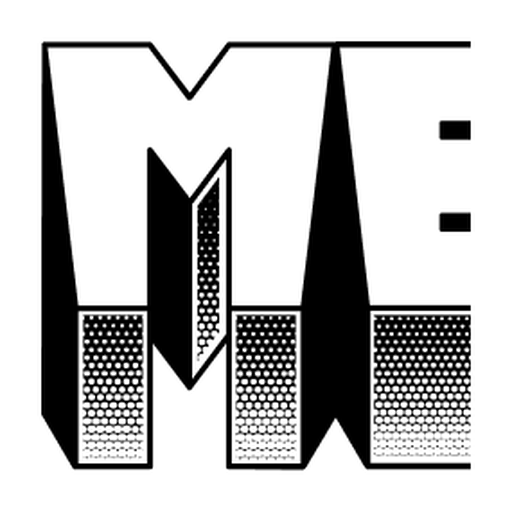
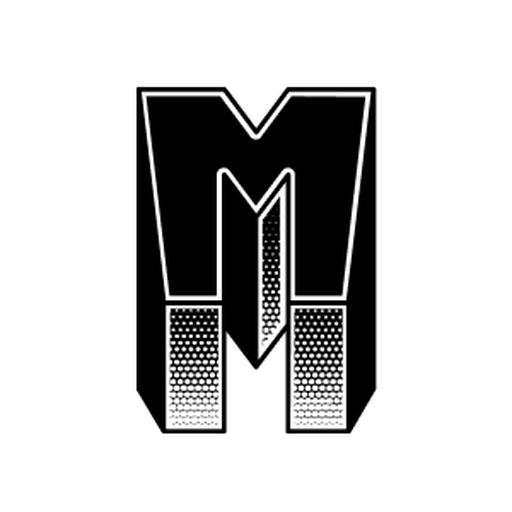
mechanica: the real square mark (Chris drew the M)
Supersedes the squeezed-wordmark square, which was illegible at avatar size.
A glyph could not be cropped out of the wordmark because the extruded letters
overlap - it needed drawing, and Chris drew it.

diff --git a/README.md b/README.md
@@ -32,7 +32,8 @@ other Slay Global repo is private. Email needs a stable public origin for every 
 |---|---|
 | `mechanica/mechanica-masthead-700.png` | MECHANICA masthead, **centered** use. 700x120, displays at 350px |
 | `mechanica/mechanica-masthead-1200.png` | ⭐ MECHANICA masthead, **FULL-WIDTH** use. 1200x205, displays at 600px |
-| `mechanica/mechanica-square-512.png` | Square avatar for platform profiles (Substack etc). ⚠ Wordmark centered — **a proper single-glyph mark is a design job, not a crop**: the extruded letters overlap, so no letter can be cut out cleanly |
+| `mechanica/mechanica-mark-512.png` | ⭐ **THE SQUARE MARK** — the M glyph, drawn properly. Use for every platform avatar |
+| `mechanica/mechanica-square-512.png` | ⚠ SUPERSEDED. Wordmark squeezed into a square; illegible small. **Kept only as the record of why a crop does not work** — the extruded letters overlap, so no glyph can be cut out of the wordmark |
 | `hardwire/a1-mini-cutout-560.png` | Bambu Lab A1 mini, giveaway prize. 560px, **transparent cutout** |
 
 ⚠ **The `hardwire/` folder name is wrong and stays anyway.** The newsletter was renamed to MECHANICA
